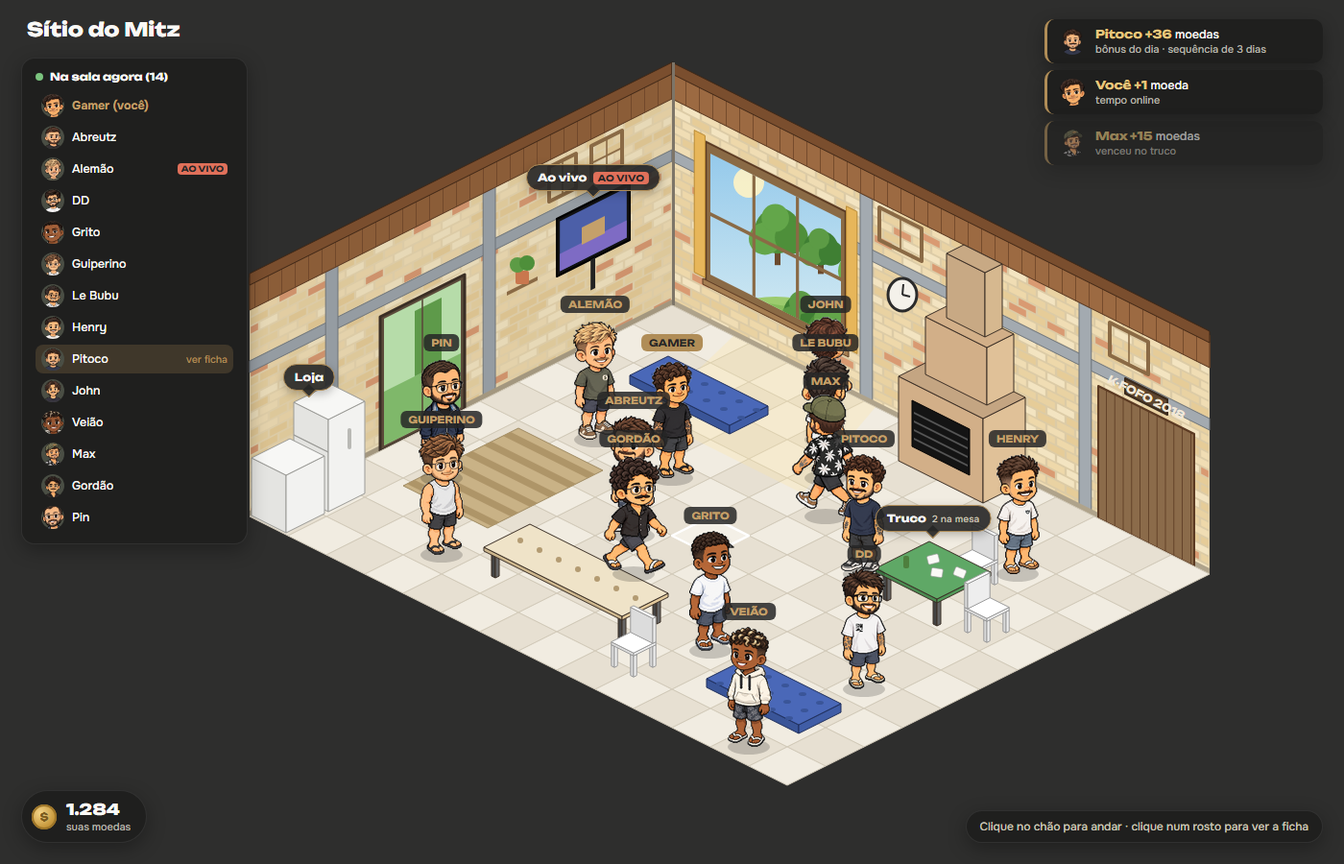
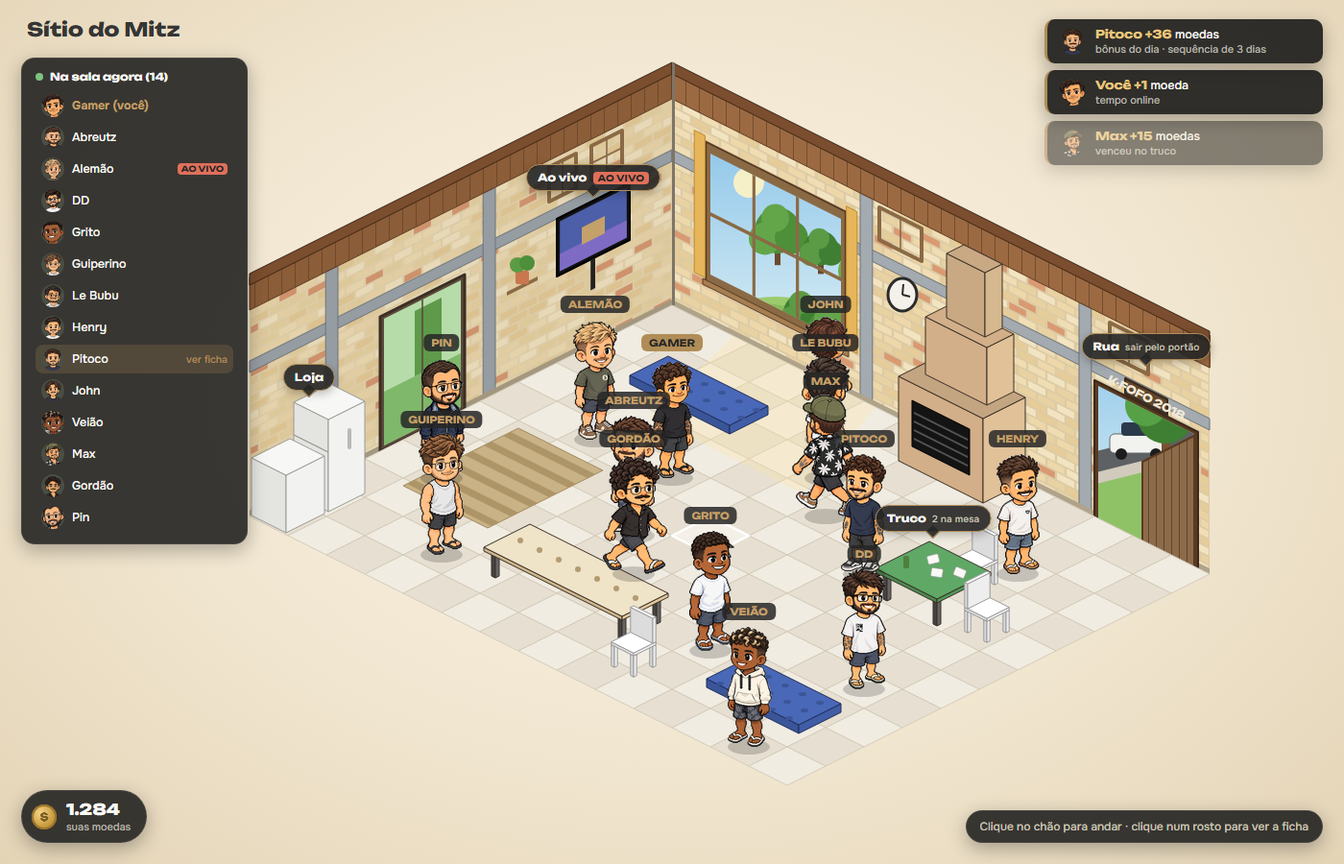
Planejamento: fase 16 (rua do Sítio) e ajustes nas fases 05, 14 e 15
Documentos escritos pela sessão de planejamento: o prompt 16, o modelo da
rua (demo/rua.html e .png), o hall v2 com o portão aberto e os ajustes nos
prompts 05, 14 e 15. Sem código.

diff --git a/planejamento/demo/rua.html b/planejamento/demo/rua.html
@@ -1,0 +1,168 @@
+<!doctype html>
+<html lang="pt-BR"><head><meta charset="utf-8"><title>Rua do Sítio</title>
+<link href="https://fonts.googleapis.com/css2?family=Onest:wght@500;700&family=Unbounded:wght@700;800&display=swap" rel="stylesheet">
+<style>
+body{margin:0;background:linear-gradient(#8CC8EE 0%,#BFE2F4 45%,#E4F1EC 75%,#D6EBC6 100%);width:1400px;height:900px;font-family:Onest,sans-serif;overflow:hidden;position:relative;color:#FAF9F6}
+svg{position:absolute;left:0;top:0}
+#bonecos{position:absolute;left:0;top:0;width:1400px;height:900px;pointer-events:none}
+.bon{position:absolute;width:84px;height:134px;background-size:420px 268px;transform-origin:42px 132px}
+.nome{position:absolute;transform:translateX(-50%);font:700 10px Unbounded,sans-serif;color:#C4A06A;background:rgba(38,38,38,.85);padding:3px 8px;border-radius:6px;white-space:nowrap}
+.nome.eu{color:#262626;background:#B08D57}
+.rot{position:absolute;transform:translate(-50%,-100%);font:700 11px Unbounded,sans-serif;color:#FAF9F6;background:rgba(38,38,38,.9);border:1.5px solid #B08D57;padding:6px 11px;border-radius:999px;white-space:nowrap;box-shadow:0 3px 10px rgba(0,0,0,.25)}
+.rot::after{content:"";position:absolute;left:50%;bottom:-6px;width:9px;height:9px;background:rgba(38,38,38,.9);border-right:1.5px solid #B08D57;border-bottom:1.5px solid #B08D57;transform:translateX(-50%) rotate(45deg)}
+.rot small{font:500 10px Onest,sans-serif;color:#C9C4B8}
+.carro{position:absolute;transform:translate(-50%,-100%);font:500 10.5px Onest,sans-serif;color:#E9E4D8;background:rgba(38,38,38,.7);padding:2px 7px;border-radius:5px;white-space:nowrap}
+h1{position:absolute;left:28px;top:18px;margin:0;font:800 20px Unbounded,sans-serif;color:#2B3A2E}
+p.sub{position:absolute;left:28px;top:48px;margin:0;color:#3E5A44;font-size:13px}
+</style></head><body>
+<svg id="s" width="1400" height="900"></svg>
+<div id="bonecos"></div>
+<h1>Rua do Sítio</h1>
+<p class="sub">Saindo pelo portão K-FOFO: grama, a árvore grande, os bancos e os carros parados na rua</p>
+<script>
+const BON="../assets/bonecos/";
+const svg=document.getElementById("s"),NS="http://www.w3.org/2000/svg";
+// rua: 16 x 12 pisos. j=0..2 asfalto (fundo), j=3 calçada, j>=4 grama
+const X0=640,Y0=250,TW=40,TH=20,NI=16,NJ=12;
+const p=(i,j,z=0)=>[X0+(i-j)*TW,Y0+(i+j)*TH-z];
+const el=(tag,attrs,pai=svg)=>{const e=document.createElementNS(NS,tag);for(const k in attrs)e.setAttribute(k,attrs[k]);pai.appendChild(e);return e};
+const pts=a=>a.map(q=>q.join(",")).join(" ");
+const poly=(a,fill,stroke,sw=1)=>el("polygon",{points:pts(a),fill,stroke:stroke||"none","stroke-width":sw,"stroke-linejoin":"round"});
+let semente=5;const rnd=()=>(semente=(semente*16807)%2147483647)/2147483647;
+const escurece=(h,f)=>{const n=parseInt(h.slice(1),16);const m=v=>Math.max(0,Math.min(255,Math.round(v*f)));return"#"+((1<<24)|(m(n>>16)<<16)|(m(n>>8&255)<<8)|m(n&255)).toString(16).slice(1)};
+function caixa(i,j,w,d,h,topo,esq,dir,z=0,linha="#3a2e25"){
+  poly([p(i,j+d,z),p(i+w,j+d,z),p(i+w,j+d,z+h),p(i,j+d,z+h)],esq,linha);
+  poly([p(i+w,j,z),p(i+w,j+d,z),p(i+w,j+d,z+h),p(i+w,j,z+h)],dir,linha);
+  poly([p(i,j,z+h),p(i+w,j,z+h),p(i+w,j+d,z+h),p(i,j+d,z+h)],topo,linha);
+}
+const quad=(i,j,w,d,fill,stroke,z=0)=>poly([p(i,j,z),p(i+w,j,z),p(i+w,j+d,z),p(i,j+d,z)],fill,stroke);
+
+// ---------- céu: sol, nuvens e árvores ao longe (atrás de tudo)
+el("circle",{cx:1180,cy:110,r:46,fill:"#FFF6CF",opacity:.95});el("circle",{cx:1180,cy:110,r:70,fill:"#FFF6CF",opacity:.25});
+for(const[x,y,k]of[[260,120,1],[520,80,.8],[900,140,1.1],[1290,230,.7],[120,300,.8]]){for(const[dx,dy,r]of[[0,0,26],[28,-10,30],[58,0,24],[30,8,26]])el("ellipse",{cx:x+dx*k,cy:y+dy*k,rx:r*k*1.3,ry:r*k*.8,fill:"#FFFFFF",opacity:.92})}
+// fileira de árvores e morros ao longe, atrás da rua
+{const lin=[];for(let i=-3;i<=NI+3;i+=.5){const[x,y]=p(i,-1.2);lin.push([x,y-28-Math.sin(i*1.7)*10-Math.cos(i*.9)*8])}
+ const[xa,ya]=p(NI+3,-1.2),[xb,yb]=p(-3,-1.2);
+ poly([...lin,[xa,ya+40],[xb,yb+40]],"#7FB56A");
+ for(let i=-2;i<=NI+2;i+=.7){const[x,y]=p(i,-.6);const r=14+((i*7)%5)*3;el("circle",{cx:x,cy:y-26,r,fill:["#5E9A4A","#6BA856","#4E8A3E"][Math.floor(Math.abs(i*3))%3]});el("rect",{x:x-2,y:y-14,width:4,height:12,fill:"#6B4A2E"})}}
+// ---------- chão
+// asfalto com faixa amarela tracejada
+quad(0,0,NI,3,"#5E6163","#4b4e50");
+for(let a=.4;a<NI;a+=1.2)quad(a,1.45,.6,.1,"#E8C24A");
+// meio-fio e calçada
+quad(0,3,NI,.15,"#BDB8AE");caixa(0,3,NI,.15,4,"#CFCAC0","#A8A398","#BDB8AE");
+for(let i=0;i<NI;i++)quad(i,3.15,1,.85,i%2?"#D9D3C6":"#D2CBBD","#BDB6A8");
+// grama com variação
+for(let i=0;i<NI;i++)for(let j=4;j<NJ;j++){const c=["#8FC266","#86BA5E","#93C56B","#8ABE62"][Math.floor(rnd()*4)];quad(i,j,1,1,c,"#7FB257")}
+// trilha de pedra do portão até a calçada
+for(let j=4;j<NJ;j++){const[x,y]=p(1.4+(j%2)*.25,j+.5);el("ellipse",{cx:x,cy:y,rx:15,ry:7,fill:"#C9C2B2",stroke:"#A9A291"})}
+// tufos de capim
+for(let k=0;k<70;k++){const i=rnd()*NI,j=4+rnd()*(NJ-4);const[x,y]=p(i,j);el("path",{d:`M${x-3} ${y} l2 -6 l1 6 l2 -7 l1 7`,stroke:"#5E9A42","stroke-width":1.4,fill:"none"})}
+
+// ---------- muro do Sítio (esquerda, ao longo de j), com o portão K-FOFO aberto
+const MH=150;
+function tijoloMuro(a,b){
+  poly([p(0,a),p(0,b),p(0,b,MH),p(0,a,MH)],"#DCCBA6");
+  for(let r=0,z=0;z<MH;r++,z+=9)for(let c=(r%2?-.25:0)+a;c<b;c+=.5){const c0=Math.max(a,c),c1=Math.min(b,c+.5);if(c1<=c0)continue;
+    poly([p(0,c0+.03,z+1),p(0,c1-.03,z+1),p(0,c1-.03,Math.min(MH,z+8)),p(0,c0+.03,Math.min(MH,z+8))],escurece(["#F0DDB4","#E9D2A2","#F3E4C1","#E6CC98"][Math.floor(rnd()*4)],.95))}
+  poly([p(0,a,MH),p(0,b,MH),p(0,b,MH+10),p(0,a,MH+10)],"#9C6A42","#5b3a22");
+}
+tijoloMuro(4,6.6);tijoloMuro(8.6,NJ);
+// vão do portão: dá para ver o hall lá dentro
+poly([p(0,6.6),p(0,8.6),p(0,8.6,138),p(0,6.6,138)],"#EFE6D2","#5b3a22",2);
+poly([p(0,6.6),p(0,8.6),p(0,8.6,30),p(0,6.6,30)],"#E3DACA");
+poly([p(0,6.9,60),p(0,7.6,60),p(0,7.6,110),p(0,6.9,110)],"#E9D2A2");
+// folha do portão aberta para fora (girada, encostada no muro)
+{const fo=[[...p(0,6.6)],[...p(1.6,6.6)],[...p(1.6,6.6,138)],[...p(0,6.6,138)]];poly(fo,"#8B6B4A","#5b3a22",2);
+ for(let a=.2;a<1.6;a+=.22)poly([p(a,6.6),p(a+.02,6.6),p(a+.02,6.6,138),p(a,6.6,138)],"#5b3a22")}
+poly([p(0,7.0,144),p(0,8.2,144),p(0,8.2,160),p(0,7.0,160)],"#5E4630","#3a2a1c",2);
+{const[sx,sy]=p(0,7.6,152);const t=el("text",{x:sx,y:sy+4,"text-anchor":"middle","font-family":"Unbounded,sans-serif","font-weight":"700","font-size":"10",fill:"#F1E8D9",transform:`rotate(-26.6 ${sx} ${sy})`});t.textContent="K-FOFO 2018"}
+
+// ---------- carros estacionados na rua (fundo), sem marcas: só forma e cor
+function roda(i,j,z=0){const[x,y]=p(i,j,z);el("ellipse",{cx:x,cy:y-6,rx:9,ry:8,fill:"#1d1d1d"});el("ellipse",{cx:x,cy:y-6,rx:4,ry:3.5,fill:"#9a9a9a"})}
+// carro ao longo de i: comprimento L, largura W. tipo: hatch | suv | fastback | sedan
+function carro(i,j,L,W,cor,tipo){
+  const vid="#2B3A4A",escuro=escurece(cor,.82),claro=escurece(cor,1.06);
+  const alto=tipo==="suv"?24:tipo==="fastback"?22:19;
+  el("ellipse",{cx:p(i+L/2,j+W/2)[0],cy:p(i+L/2,j+W/2)[1],rx:L*28,ry:W*16,fill:"rgba(0,0,0,.22)"});
+  caixa(i,j,L,W,alto,claro,cor,escuro,5,"#222");
+  roda(i+.55,j+W,-3);roda(i+L-.6,j+W,-3);
+  // cabine
+  let c0=.55,c1=L-.75,ch=tipo==="suv"?20:16;
+  if(tipo==="hatch"){c0=.45;c1=L-.35}
+  if(tipo==="sedan"){c0=.75;c1=L-.95}
+  const z=5+alto;
+  if(tipo==="fastback"){ // teto caindo para trás
+    poly([p(i+c0,j+W-.12,z),p(i+c1,j+W-.12,z),p(i+c1-.25,j+W-.12,z+ch),p(i+c0+.7,j+W-.12,z+ch)],vid,"#222");
+    poly([p(i+c1,j+.12,z),p(i+c1,j+W-.12,z),p(i+c1-.25,j+W-.12,z+ch),p(i+c1-.25,j+.12,z+ch)],escurece(vid,1.2),"#222");
+    poly([p(i+c0+.7,j+.12,z+ch),p(i+c1-.25,j+.12,z+ch),p(i+c1-.25,j+W-.12,z+ch),p(i+c0+.7,j+W-.12,z+ch)],claro,"#222");
+    poly([p(i+c0,j+.12,z),p(i+c0+.7,j+.12,z+ch),p(i+c0+.7,j+W-.12,z+ch),p(i+c0,j+W-.12,z)],escurece(vid,.9),"#222");
+  }else{
+    caixa(i+c0,j+.12,c1-c0,W-.24,ch,claro,vid,escurece(vid,1.2),z,"#222");
+    // coluna do meio
+    const m=(c0+c1)/2;poly([p(i+m-.05,j+W-.12,z),p(i+m+.05,j+W-.12,z),p(i+m+.05,j+W-.12,z+ch),p(i+m-.05,j+W-.12,z+ch)],cor);
+  }
+  if(tipo==="suv")for(const b of[j+.2,j+W-.25])poly([p(i+c0+.1,b,z+ch),p(i+c1-.1,b,z+ch),p(i+c1-.1,b,z+ch+3),p(i+c0+.1,b,z+ch+3)],"#333"); // rack
+  // farol e lanterna
+  poly([p(i+L,j+.15,5+alto-8),p(i+L,j+.45,5+alto-8),p(i+L,j+.45,5+alto-3),p(i+L,j+.15,5+alto-3)],"#F5F1DD");
+  poly([p(i+L,j+W-.45,5+alto-8),p(i+L,j+W-.15,5+alto-8),p(i+L,j+W-.15,5+alto-3),p(i+L,j+W-.45,5+alto-3)],"#F5F1DD");
+}
+const CARROS=[
+  [0.6,"#2F4A36","hatch","Honda Fit verde escuro",2.3],
+  [3.6,"#F2F2EF","fastback","Fiat Fastback branco",2.7],
+  [7.0,"#8C1F1F","suv","Jeep Renegade",2.5],
+  [10.2,"#F4F4F1","sedan","Chevrolet Onix branco",2.6],
+  [13.3,"#1F2D4D","suv","Honda HR-V azul escuro",2.6],
+];
+for(const[i,cor,tipo,,L]of CARROS)carro(i,.35,L,1.25,cor,tipo);
+
+// ---------- poste de luz na calçada
+{caixa(6.2,3.4,.12,.12,150,"#555","#444","#666");const[x,y]=p(6.26,3.46,150);el("ellipse",{cx:x+10,cy:y,rx:14,ry:5,fill:"#444"});el("ellipse",{cx:x+10,cy:y+3,rx:9,ry:3,fill:"#FFF3C4"})}
+
+// ---------- bancos de praça (madeira com pé de ferro)
+function banco(i,j,vira){
+  const L=1.6,W=.5;
+  if(vira==="i"){
+    for(const a of[i+.15,i+L-.25])caixa(a,j,.1,W,16,"#333","#2a2a2a","#3a3a3a");
+    for(let k=0;k<3;k++)caixa(i,j+k*.17,L,.13,3,"#B07A45","#8E5F33","#A06C3B",16,"#5b3a22");
+    for(let k=0;k<2;k++)caixa(i,j-.02,L,.08,6,"#B07A45","#8E5F33","#A06C3B",26+k*9,"#5b3a22");
+  }else{
+    for(const b of[j+.15,j+L-.25])caixa(i,b,W,.1,16,"#333","#2a2a2a","#3a3a3a");
+    for(let k=0;k<3;k++)caixa(i+k*.17,j,.13,L,3,"#B07A45","#8E5F33","#A06C3B",16,"#5b3a22");
+    for(let k=0;k<2;k++)caixa(i-.02,j,.08,L,6,"#B07A45","#8E5F33","#A06C3B",26+k*9,"#5b3a22");
+  }
+}
+// ---------- árvore grande à direita
+function arvore(i,j){
+  const[x,y]=p(i,j);
+  el("ellipse",{cx:x,cy:y+4,rx:120,ry:52,fill:"rgba(30,60,20,.25)"});
+  // raízes e tronco
+  el("path",{d:`M${x-26} ${y+4} Q${x-10} ${y-20} ${x-12} ${y-110} L${x+12} ${y-110} Q${x+10} ${y-20} ${x+28} ${y+4} Z`,fill:"#7A5332",stroke:"#4a3020","stroke-width":2});
+  el("path",{d:`M${x-4} ${y-20} Q${x-2} ${y-70} ${x+4} ${y-100}`,stroke:"#5E3F25","stroke-width":3,fill:"none"});
+  el("path",{d:`M${x+6} ${y-105} Q${x+40} ${y-140} ${x+70} ${y-150}`,stroke:"#6B4A2E","stroke-width":9,fill:"none"});
+  el("path",{d:`M${x-6} ${y-100} Q${x-40} ${y-135} ${x-75} ${y-140}`,stroke:"#6B4A2E","stroke-width":9,fill:"none"});
+  const copa=[[0,-190,85,"#3F7F33"],[-75,-160,62,"#4A8C3A"],[78,-165,64,"#4A8C3A"],[-40,-225,60,"#4E9440"],[45,-230,62,"#56A046"],[0,-150,60,"#3B7630"],[-100,-130,40,"#3F7F33"],[105,-135,42,"#3F7F33"],[10,-255,48,"#62AC4F"],[-20,-200,40,"#5BA449"],[60,-190,38,"#62AC4F"]];
+  for(const[dx,dy,r,c]of copa)el("circle",{cx:x+dx,cy:y+dy,r,fill:c});
+  for(let k=0;k<26;k++)el("circle",{cx:x-90+rnd()*180,cy:y-270+rnd()*150,r:6+rnd()*8,fill:"#6DB85A",opacity:.75});
+}
+banco(10.2,7.2,"i");
+banco(14.5,6.2,"j");
+arvore(13.8,8.9);
+banco(10.8,10.4,"i");
+// lixeira
+caixa(8.2,4.4,.35,.35,26,"#3E6B3A","#335A30","#3A6436");
+
+// ---------- bonecos de exemplo
+const B=[["gamer","Gamer",3,6,0,0,0],["pitoco","Pitoco",5,5,1,1,0],["max","Max",10.3,7.5,0,0,0],["john","John",11.3,7.5,0,1,0],["abreutz","Abreutz",7,8,0,0,2]];
+const camada=document.getElementById("bonecos");
+B.sort((a,b)=>(a[2]+a[3])-(b[2]+b[3])).forEach(([arq,nm,i,j,lin,esp,col])=>{
+  const[x,y]=p(i+.5,j+.5);const d=document.createElement("div");d.className="bon";
+  d.style.left=(x-42)+"px";d.style.top=(y-132)+"px";d.style.backgroundImage=`url(${BON}${arq}.webp)`;d.style.backgroundPosition=`${-col*84}px ${-lin*134}px`;
+  if(esp)d.style.transform="scaleX(-1)";camada.appendChild(d);
+  const t=document.createElement("div");t.className="nome"+(nm==="Gamer"?" eu":"");t.textContent=nm.toUpperCase();t.style.left=x+"px";t.style.top=(y-150)+"px";camada.appendChild(t);
+});
+function rotulo(html,i,j,z,cls="rot"){const[x,y]=p(i,j,z);const r=document.createElement("div");r.className=cls;r.innerHTML=html;r.style.left=x+"px";r.style.top=y+"px";document.body.appendChild(r)}
+rotulo("Voltar ao Sítio",0,7.6,185);
+for(const[i,,,nome,L]of CARROS)rotulo(nome,i+L/2,.95,70,"carro");
+</script>
+</body></html>

diff --git a/planejamento/demo/hall-v2.html b/planejamento/demo/hall-v2.html
@@ -2,7 +2,7 @@
 <html lang="pt-BR"><head><meta charset="utf-8"><title>Hall do Sítio v2</title>
 <link href="https://fonts.googleapis.com/css2?family=Onest:wght@500;700&family=Unbounded:wght@700;800&display=swap" rel="stylesheet">
 <style>
-body{margin:0;background:#2E2E2D;width:1400px;height:900px;font-family:Onest,sans-serif;overflow:hidden;position:relative;color:#FAF9F6}
+body{margin:0;background:radial-gradient(ellipse at 50% 45%,#FBF4E6 0%,#F1E6D0 55%,#E4D4B6 100%);width:1400px;height:900px;font-family:Onest,sans-serif;overflow:hidden;position:relative;color:#FAF9F6}
 svg{position:absolute;left:0;top:0}
 #bonecos{position:absolute;left:0;top:0;width:1400px;height:900px;pointer-events:none}
 .bon{position:absolute;width:84px;height:134px;background-size:420px 268px;transform-origin:42px 132px}
@@ -15,7 +15,7 @@ svg{position:absolute;left:0;top:0}
 .rot small{font:500 10px Onest,sans-serif;color:#C9C4B8}
 /* cantos */
 .canto{position:absolute;background:rgba(30,30,29,.88);border:1px solid rgba(255,255,255,.08);border-radius:14px;padding:12px 14px;box-shadow:0 6px 20px rgba(0,0,0,.3)}
-h1{position:absolute;left:28px;top:18px;margin:0;font:800 20px Unbounded,sans-serif}
+h1{position:absolute;left:28px;top:18px;margin:0;font:800 20px Unbounded,sans-serif;color:#353535}
 #sala{left:22px;top:60px;width:206px}
 #sala h3{margin:0 0 8px;font:700 11px Unbounded,sans-serif;display:flex;gap:7px;align-items:center}
 #sala h3 i{width:8px;height:8px;border-radius:50%;background:#7BC47F;display:inline-block}
@@ -130,8 +130,26 @@ for(const[a,b]of[[1.3,2.1],[2.5,3.2]]){naParede("esq",a,b,172,208,"none","#8A6A4
 {const[cx,cy]=p(6.0,0,140);el("ellipse",{cx,cy:cy+9,rx:15,ry:17,fill:"#F4F1EA",stroke:"#2b2b2b","stroke-width":3});
  el("line",{x1:cx,y1:cy+9,x2:cx+1,y2:cy-2,stroke:"#2b2b2b","stroke-width":2});el("line",{x1:cx,y1:cy+9,x2:cx+8,y2:cy+11,stroke:"#2b2b2b","stroke-width":2})}
 for(const[a,b]of[[5.4,6.5],[11.4,12.4]]){naParede("dir",a,b,176,210,"none","#8A6A45",4);naParede("dir",(a+b)/2-.02,(a+b)/2+.02,176,210,"#8A6A45")}
-naParede("dir",11.1,13.6,0,138,"#8B6B4A","#5b3a22",2);
-for(let a=11.3;a<13.6;a+=.22)naParede("dir",a,a+.02,0,138,"#5b3a22");
+// portão K-FOFO aberto: dá para ver a rua (grama, calçada, carro e a árvore grande)
+naParede("dir",11.0,13.7,0,142,"#5b3a22","#3a2a1c",2);
+{const vao=naParedeP("dir",11.1,13.6,0,138);
+ const cp=el("clipPath",{id:"clipPortao"},svg.querySelector("defs"));el("polygon",{points:pts(vao)},cp);
+ const g=el("g",{"clip-path":"url(#clipPortao)"});
+ const[x0,y0]=p(11.1,0,138),[x1,y1]=p(13.6,0,0);
+ el("rect",{x:x0-10,y:y0-60,width:x1-x0+20,height:y1-y0+90,fill:"url(#ceu)"},g);
+ el("polygon",{points:pts([[x0-10,y0+70],[x1+10,y0+40],[x1+10,y1+10],[x0-10,y1+10]]),fill:"#5E6163"},g);
+ el("polygon",{points:pts([[x0-10,y0+92],[x1+10,y0+62],[x1+10,y1+10],[x0-10,y1+10]]),fill:"#D2CBBD"},g);
+ el("polygon",{points:pts([[x0-10,y0+104],[x1+10,y0+74],[x1+10,y1+10],[x0-10,y1+10]]),fill:"#8FC266"},g);
+ // pedaço de um carro branco parado
+ el("rect",{x:x0+12,y:y0+50,width:58,height:20,rx:5,fill:"#F2F2EF",stroke:"#666"},g);el("rect",{x:x0+24,y:y0+38,width:32,height:14,rx:4,fill:"#2B3A4A"},g);
+ el("circle",{cx:x0+24,cy:y0+71,r:6,fill:"#1d1d1d"},g);el("circle",{cx:x0+60,cy:y0+71,r:6,fill:"#1d1d1d"},g);
+ // a árvore grande
+ el("rect",{x:x1-34,y:y0+40,width:9,height:70,fill:"#7A5332"},g);
+ for(const[dx,dy,r,c]of[[-30,30,30,"#3F7F33"],[-10,15,26,"#4E9440"],[-50,20,22,"#56A046"],[-28,0,20,"#62AC4F"]])el("circle",{cx:x1+dx,cy:y0+dy,r,fill:c},g);
+}
+// folha do portão aberta para dentro, encostada (de tábuas)
+poly([p(13.6,0),p(13.6,1.35),p(13.6,1.35,136),p(13.6,0,136)],"#8B6B4A","#5b3a22",2);
+for(let b=.18;b<1.35;b+=.2)poly([p(13.6,b),p(13.6,b+.02),p(13.6,b+.02,136),p(13.6,b,136)],"#5b3a22");
 naParede("dir",11.8,12.9,144,160,"#5E4630","#3a2a1c",2);
 {const[sx,sy]=p(12.35,0,151);const t=el("text",{x:sx,y:sy+4,"text-anchor":"middle","font-family":"Unbounded,sans-serif","font-weight":"700","font-size":"11",fill:"#F1E8D9",transform:`rotate(26.6 ${sx} ${sy})`});t.textContent="K-FOFO 2018"}
 
@@ -209,6 +227,7 @@ function rotulo(html,i,j,z){const[x,y]=p(i,j,z);const r=document.createElement("
 rotulo('Ao vivo <span class="live">AO VIVO</span>',0,2.05,160);
 rotulo("Truco <small>2 na mesa</small>",11.1,4.3,72);
 rotulo("Loja",0.45,9.9,118);
+rotulo("Rua <small>sair pelo portão</small>",12.35,0,190);
 </script>
 
 <!-- cantos -->

diff --git a/planejamento/prompts/16-rua-do-sitio.md b/planejamento/prompts/16-rua-do-sitio.md
@@ -1,0 +1,66 @@
+# Fase 16: Rua do Sítio (sair pelo portão K-FOFO)
+
+**Branch:** `rua-do-sitio` · **Depende de:** fase 14 (hall v2 com o portão aberto) · **Banco:** nenhum SQL
+
+## Objetivo (para quem usa)
+O modelo está em `planejamento/demo/rua.html` e `rua.png`. Abra os dois antes de começar.
+- **Sair:** no hall, o portão K-FOFO ganha a placa "Rua". Clicar nela, ou andar até o piso do portão, leva o seu boneco para fora. Na rua, a placa "Voltar ao Sítio" no portão faz o caminho inverso.
+- **Lá fora:**
+  - grama com uma trilha de pedras saindo do portão;
+  - calçada com um poste e uma lixeira;
+  - a **árvore grande** à direita, com sombra no chão;
+  - **bancos de praça**, por enquanto só de enfeite (sentar fica para uma atualização futura);
+  - **céu claro de fundo** em volta do cenário, com nuvens e uma fileira de árvores ao longe, no lugar do fundo escuro do site. No tema escuro, vira um céu de fim de tarde, mais fechado, mas nunca preto;
+  - de fundo, na rua, **cinco carros estacionados**: Honda Fit verde-escuro, Fiat Fastback branco, Jeep Renegade, Chevrolet Onix branco e Honda HR-V azul-escuro.
+- **Carros:** são desenhados por código, só com o formato (hatch, SUV, fastback, sedã) e a cor, **sem logotipos nem marcas desenhadas**. Passar o mouse mostra o nome do carro numa etiqueta.
+- **Quem está onde:**
+  - cada pessoa só vê, no cenário, os bonecos que estão no mesmo lugar (hall ou rua);
+  - o "Na sala agora" (fase 14) continua com todo mundo, com a etiqueta "na rua" para quem está lá fora;
+  - os ganhos de moedas e a carteira aparecem nos dois lugares.
+- **Recarregar** a página volta cada um ao lugar e ao piso onde estava.
+
+## Antes de começar
+Siga as "Regras de toda sessão" de `planejamento/PLANO.md`. Leia:
+- `planejamento/demo/rua.html` (geometria: `NI=16`, `NJ=12`, asfalto em `j` de 0 a 2, calçada em `j=3`, grama de `j=4` em diante, muro com o portão em `i=0`, `j` de 6,6 a 8,6; posição de cada carro, banco, árvore, poste e lixeira);
+- `src/features/hall/*` como ficou depois da fase 14 (`hall.ts`, `bonecos.ts`, `Sala.tsx`, `Cantos.tsx`), e `src/lib/sala.ts` (`cleanPresence`, `EVENTOS`).
+
+## Como fazer
+
+### 1) Regra pura: cenários
+- **`src/features/hall/cenas.ts`:** cada cenário (`"hall"` e `"rua"`) tem `NI`, `NJ`, `X0`, `Y0`, `VB`, `MOVEIS`, `BLOQUEADOS` e `PORTAS`. O `hall.ts` passa a receber o cenário em vez de usar constantes soltas. **Mantenha os testes atuais passando.**
+- **`PORTAS`:** liga o piso de saída de um cenário ao piso de chegada do outro (portão do hall ↔ portão da rua).
+- **Rua:** o asfalto (`j < 3`) é bloqueado (os carros ficam lá), e também a árvore (só o tronco e as raízes), os bancos, o poste e a lixeira.
+- **`posValida(v, cena)`**, com testes para:
+  - caminho até a porta;
+  - troca de cenário;
+  - piso de asfalto recusado.
+
+### 2) Tempo real
+- **Presença:** ganha `cena: "hall" | "rua"`, conferida em `cleanPresence`. Sem `cena`, vale `"hall"`, para quem ainda está com a versão antiga.
+- **Evento `hall`:** passa a ser `{ cena, para: {i, j} }`, com a mesma conferência (tipo, `posValida`, `estaNaSala`, `limitePorPessoa(8, 2000)`).
+- **Chave local `hall-pos`:** passa a guardar `{ cena, i, j }`. Uma posição antiga só com `{i, j}` vale como hall.
+
+### 3) Tela
+- **`Rua.tsx`:** desenha a rua em SVG, no mesmo esquema do `Sala.tsx`: chão, muro com o portão aberto, carros, poste, lixeira, bancos e árvore, cada móvel na sua camada com `ordemZ`.
+- **Cores:** variáveis `--hall-*` novas (`--hall-grama`, `--hall-asfalto`, `--hall-calcada`, `--hall-ceu-1`/`--hall-ceu-2`, as cores de cada carro…), com versão escura.
+- **Céu:** um degradê em CSS no fundo do palco (`.hall-palco.rua`), com as nuvens e as árvores distantes no próprio SVG, atrás de tudo.
+- **`HallView`:** mostra o cenário em que **você** está. A troca tem um fade curto, que não acontece com `prefers-reduced-motion`.
+- **Rótulos:** "Voltar ao Sítio" no portão e o nome do carro embaixo do mouse.
+- **Teclado:** as setas andam no cenário atual.
+
+## Não faça
+- Não desenhe logotipo, emblema ou marca de carro: só forma e cor.
+- Não crie SQL: o cenário é presença e broadcast.
+- Não use imagens novas para a rua: é SVG desenhado por código.
+- Não faça o sentar agora: ele fica para uma atualização futura (está na fila do `PLANO.md`).
+
+## Pronto quando
+- [ ] Com duas abas, uma sai para a rua e some do hall da outra; a outra sai também e as duas se veem lá fora.
+- [ ] Recarregar mantém cada um no cenário e no piso onde estava.
+- [ ] Um broadcast forjado (cena inventada, piso no asfalto, piso de outro cenário) é ignorado.
+- [ ] Os testes antigos e novos de `hall.ts`/`cenas.ts` passam, e `npm run check` também.
+- [ ] Com 390 px, a rua cabe sem rolagem para o lado, e o console está sem erros de CSP.
+- [ ] O `CLAUDE.md` (cenários, campo `cena` na presença, evento `hall` novo, formato da `hall-pos`) e o `CHANGELOG` foram atualizados.
+
+## Entrada do CHANGELOG
+`"Rua do Sítio: saia pelo portão K-FOFO, passeie na grama debaixo da árvore e veja os carros da galera"`

diff --git a/planejamento/PLANO.md b/planejamento/PLANO.md
@@ -80,8 +80,8 @@ Decisões combinadas com o João em 01/11/2026. Vale para qualquer pessoa ou IA 
 - **Piso:** lajota clara.
 - **Objetos que levam para algum lugar:**
   - a **TV** mostra quem está ao vivo;
-  - a **porta de tábuas** com a placa "K-FOFO 2018" leva às salas de LoL e CS;
-  - a **porta de vidro** para o gramado leva à Resenha.
+  - a **porta de tábuas** com a placa "K-FOFO 2018" fica aberta e leva à rua (fase 16);
+  - a **porta de vidro** abre a escolha das salas (LoL 1, LoL 2, CS e Resenha, fase 5).
 - **Enfeites:** churrasqueira de tijolo com coifa, relógio, quadro, geladeira e freezer brancos, mesa comprida com toalha, mesa de toalha verde, cadeiras de plástico brancas e colchões infláveis azuis.
 - **Hall v2 (pedido de 01/11/2026, fase 14):** modelo em `planejamento/demo/hall-v2.html` e `.png`.
   - **Mais espaço e mais alegre:** piso de 14×11 para caber os 14 bonecos, cores mais claras e um janelão com árvores na parede do fundo.
@@ -92,8 +92,14 @@ Decisões combinadas com o João em 01/11/2026. Vale para qualquer pessoa ou IA 
     - ganhos de moedas de todo mundo em cima, à direita, vindos do banco e não do broadcast;
     - carteira pequena embaixo, à esquerda.
   - **Menu:** "Perfil" mostra o rosto de quem está logado.
+  - **Portão K-FOFO aberto,** com vista para a rua.
+  - **Fundo claro** em volta do cômodo (creme quente), em vez do escuro do site.
+- **Rua do Sítio (fase 16):** modelo em `planejamento/demo/rua.html` e `.png`.
+  - Sai-se andando pelo portão K-FOFO.
+  - Lá fora: grama, uma árvore grande à direita, bancos (só enfeite por enquanto), céu claro de fundo e cinco carros parados de fundo (Honda Fit verde-escuro, Fiat Fastback branco, Jeep Renegade, Chevrolet Onix branco e Honda HR-V azul-escuro). Os carros são desenhados só com forma e cor, sem logotipos.
+  - A escolha das salas da fase 5 passa para a porta de vidro.
 - **Celular e rede social nanica (fase 15):**
-  - é um item da loja;
+  - é um item da loja, por **3.000 moedas** (cerca de um mês de presença), para ser a meta grande da economia;
   - quem compra posta, curte e comenta na rede do grupo, com imagens no bucket `midias`;
   - sem o celular, o banco não deixa ler nem postar.
 
@@ -154,8 +160,7 @@ Decisões combinadas com o João em 01/11/2026. Vale para qualquer pessoa ou IA 
 ## Fila de ideias (ainda sem prompt)
 Quando uma delas for a próxima, a sessão de planejamento escreve o prompt.
 - **Balão do chat no hall:** a mensagem aparece por 5 s em cima do boneco de quem escreveu.
-- **Sentar e acenar:** sentar nas cadeiras e no colchão do hall, e acenar com um botão. São mais quadros gerados com IA, no mesmo estilo.
-- **Gramado da Resenha:** a área de fora do Sítio, com as cadeiras de plástico na grama, como sala.
+- **Acenar e sentar dentro do hall:** acenar com um botão, e sentar nas cadeiras e no colchão do hall. Inclui sentar nos bancos da rua (fica para depois, decisão de 02/11/2026). São mais quadros gerados com IA, no mesmo estilo.
 - **Trocar a senha de novo:** falta saber se o problema é o botão não funcionar ou se a ideia é recuperar uma senha esquecida.
 
 ## Ordem e andamento
@@ -180,3 +185,4 @@ Quando uma delas for a próxima, a sessão de planejamento escreve o prompt.
 | 13 | `13-login-convidado.md` | `login-convidado` | 5 | a fazer |
 | 14 | `14-hall-v2.md` | `hall-v2` | 00, 2, 3 | **feita**, PR aberto (em cima da `atributos-votados`); SQL da seção 7b aplicado em 02/11/2026 |
 | 15 | `15-celular-rede-nanica.md` | `celular-rede-nanica` | 11, 12 | a fazer |
+| 16 | `16-rua-do-sitio.md` | `rua-do-sitio` | 14 | a fazer |

diff --git a/planejamento/prompts/15-celular-rede-nanica.md b/planejamento/prompts/15-celular-rede-nanica.md
@@ -3,7 +3,9 @@
 **Branch:** `celular-rede-nanica` · **Depende de:** fase 11 (loja e mochila) e fase 12 (bucket `midias` e a compressão de imagem) · **Banco:** sim
 
 ## Objetivo (para quem usa)
-- **Celular na loja:** um item novo, "Celular" (300 moedas, compra única). Quem compra ganha um **celular** no canto do Sítio e no menu.
+- **Celular na loja:** um item novo, "Celular", por **3.000 moedas** (compra única). Quem compra ganha um **celular** no canto do Sítio e no menu.
+  - **O preço é alto de propósito:** com o bônus diário e o tempo online, dá umas 70 a 100 moedas por dia, então leva cerca de **um mês** de presença para comprar. É a meta grande da economia, para o pessoal ficar mais tempo no site.
+  - A loja mostra quanto falta ("faltam 1.716 moedas") e uma barra de progresso.
 - **Dentro do celular:** a tela tem formato de celular (moldura, barra de cima com a hora) e um app só, a **rede social nanica**:
   - **feed** com as postagens de todo mundo, das mais novas para as mais velhas;
   - **postar:** texto de até 500 caracteres e, se quiser, **uma imagem**;
@@ -22,7 +24,7 @@ Siga as "Regras de toda sessão" de `planejamento/PLANO.md`. Leia:
 ## Como fazer
 
 ### Banco (seção "18) rede nanica" no `seguranca.sql`)
-- **Item:** semente idempotente em `loja_itens` com `('celular', 'Celular', espaco 'celular', preco 300)`. Acrescente `'celular'` ao `check` de `espaco` (troque o `check` com `drop constraint if exists` + `add constraint`).
+- **Item:** semente idempotente em `loja_itens` com `('celular', 'Celular', espaco 'celular', preco 3000)`. Acrescente `'celular'` ao `check` de `espaco` (troque o `check` com `drop constraint if exists` + `add constraint`).
 - **`public.tem_item(p_item text) returns boolean`:** `stable security definer`, olha a `mochila` de `auth.uid()`. Mesmos `revoke`/`grant` da `eh_nanico`.
 - **Tabelas:**
   - `rede_posts (id bigint identity pk, user_id uuid default auth.uid() → auth.users, texto text check (char_length(texto) between 1 and 500), midia text null, em timestamptz default now())`, com `midia` obrigatoriamente no formato `rede/<uid>/<id>.webp` do bucket `midias`;

diff --git a/planejamento/prompts/14-hall-v2.md b/planejamento/prompts/14-hall-v2.md
@@ -8,10 +8,12 @@ O modelo novo está em `planejamento/demo/hall-v2.html` e `hall-v2.png`. Abra os
   - o piso passa de 11×9 para **14×11**, com o meio livre para os 14 bonecos andarem;
   - tijolo, lajota e madeira ficam mais claros e quentes;
   - na parede do fundo entra um **janelão com árvores**, céu e sol, e a luz dele aparece no chão.
+  - **fundo claro em volta do cômodo:** um creme quente em degradê (`--hall-fundo-1`/`--hall-fundo-2`) no lugar do fundo escuro do site. No tema escuro, fica um marrom acolhedor, mais fechado, mas nunca preto. Os cantos (lista, ganhos, carteira) continuam escuros e legíveis por cima.
 - **Móveis que abrem coisas,** cada um com uma **placa com o nome** em cima (no estilo das placas de nome dos bonecos, com borda `--accent`):
   - **TV → "Ao vivo"** (abre a aba Ao vivo). Quando alguém transmite, a placa mostra o selo `AO VIVO`;
   - **mesa verde → "Truco"** (abre a aba Truco). A placa mostra quantos estão numa mesa, se houver ("2 na mesa");
   - **geladeira e freezer brancos → "Loja"**. Até a fase 11 existir, o clique mostra `toast("A loja abre em breve")`; depois, abre a loja.
+- **Portão K-FOFO aberto** (ver `hall-v2.png`): a folha de tábuas fica aberta para dentro, encostada na parede, e pelo vão aparecem a rua, a calçada, um carro branco parado e a árvore grande. A placa "Rua" só aparece quando a fase 16 existir; até lá, o portão é só paisagem e o piso dele continua bloqueado.
 - **Piso em destaque:** com o mouse em cima de um piso livre, ele ganha um **contorno branco** (e um véu branco leve). Piso com móvel não ganha destaque. No celular, o piso tocado pisca o contorno uma vez.
 - **Cantos da tela do hall:**
   - **em cima, à esquerda: "Na sala agora"**, com rosto e nome de quem está no site. Clicar num nome abre a **ficha** daquela pessoa. Quem está ao vivo tem o selo `AO VIVO` e um botão "Assistir" (o que o `goWatch` já faz);

diff --git a/planejamento/prompts/05-salas-lan-house.md b/planejamento/prompts/05-salas-lan-house.md
@@ -5,7 +5,7 @@
 ## Objetivo (para quem usa)
 A call do Discord se dividiu? Cada grupo entra numa **sala** do site.
 - **Lobby = o hall do Sítio (já feito na fase 00).** Esta fase acrescenta:
-  - o **portão de tábuas** (K-FOFO 2018) abre a escolha das salas fixas, por enquanto **LoL 1, LoL 2 e CS**, e a **porta de vidro** leva à **Resenha** (o gramado lá fora);
+  - a **porta de vidro** abre a escolha das salas fixas, por enquanto **LoL 1, LoL 2, CS e Resenha**, com a placa "Salas" em cima (no estilo das placas da fase 14). O **portão K-FOFO não é das salas**: ele leva à **rua** (fase 16);
   - cada cartão de sala mostra quem está ali (rosto), quem está **ao vivo** e quem está **em partida**;
   - ao passar o mouse ou tocar num rosto, aparecem as horas daquele jogo (dado da fase 3) e os links do op.gg e da Steam;
   - o **chat geral** fica no lobby.
@@ -60,7 +60,7 @@ Siga as "Regras de toda sessão" de `planejamento/PLANO.md`. **Esta fase é gran
   - `enviar`/`aoReceber` de `rtc`, `reacao` e `risco` passam pelo canal da sala;
   - `truco` continua no lobby;
   - mantenha as conferências da regra 4 (`estaNaSala` passa a olhar a presença do canal certo).
-- **No hall (`features/hall/`):** o portão e a porta de vidro aparecem, e clicar neles abre a grade de cartões de sala (cada um como uma "máquina", no visual do `.block`), o chat geral ao lado no desktop e embaixo no celular, e o botão "Entrar na sala".
+- **No hall (`features/hall/`):** a porta de vidro ganha a placa "Salas", e clicar nela abre a grade de cartões de sala (cada um como uma "máquina", no visual do `.block`), o chat geral ao lado no desktop e embaixo no celular, e o botão "Entrar na sala".
 - **Menu:**
   - "Na sala agora" mostra quem está na **minha** sala;
   - em cima fica "Você está em: LoL 1 · Trocar".
